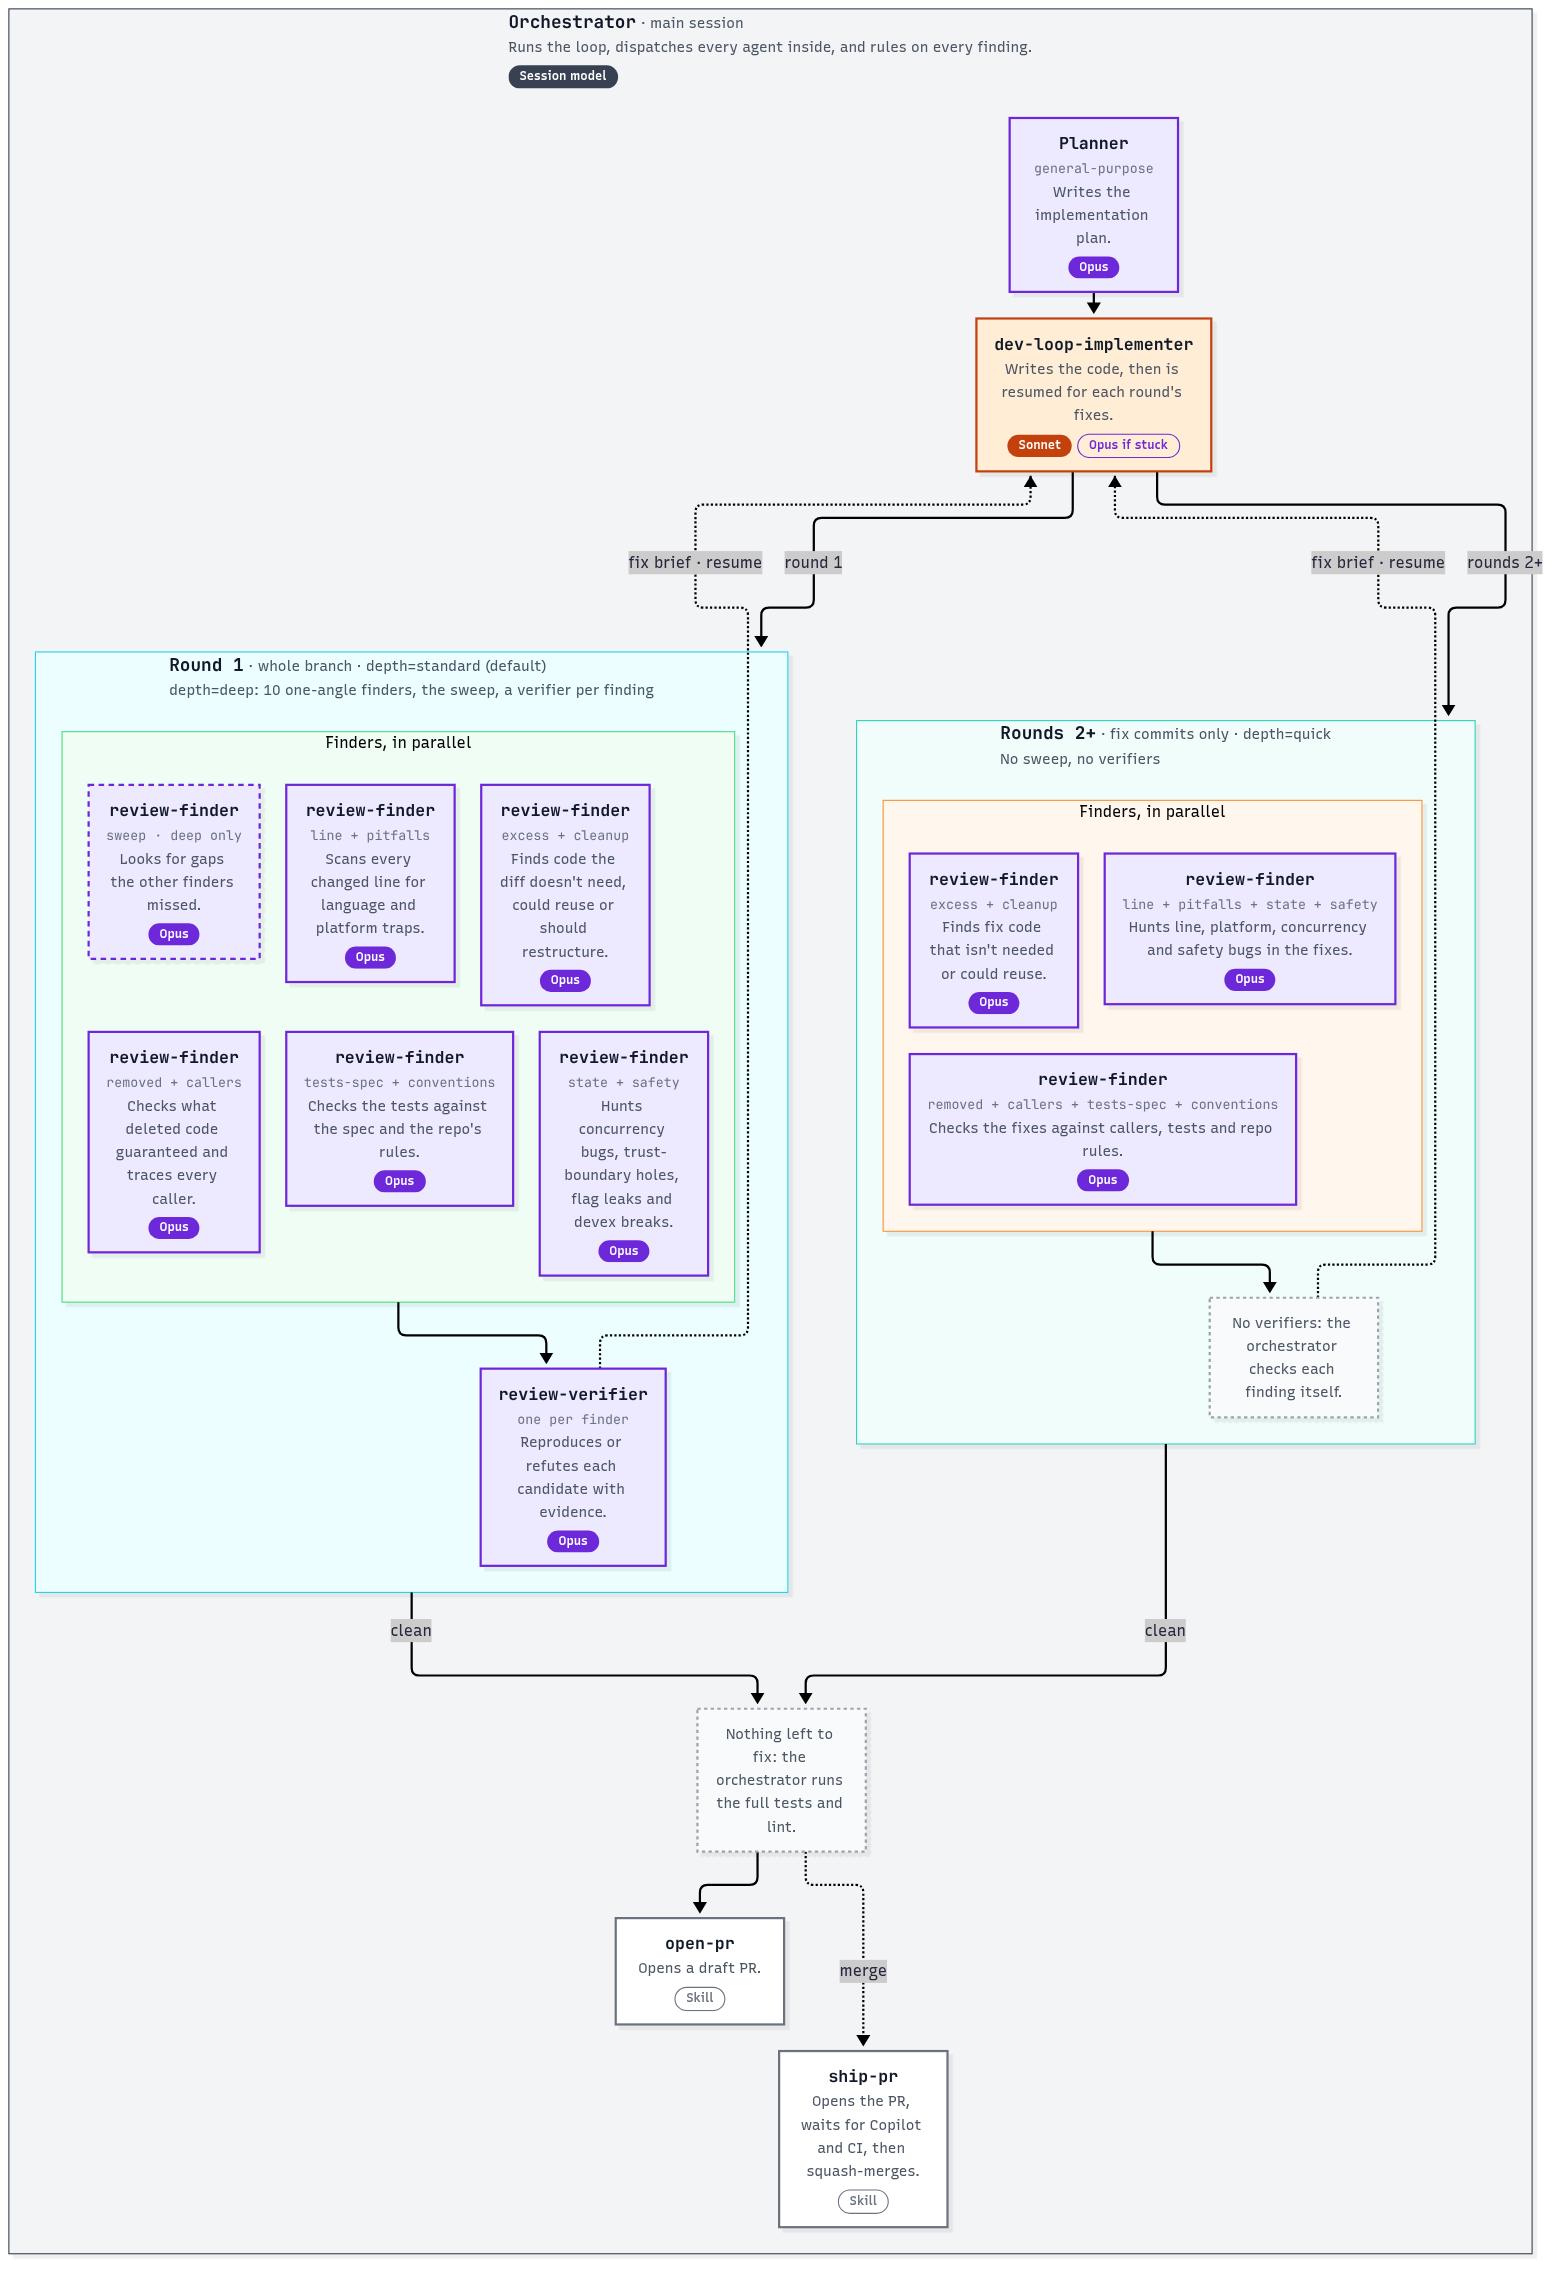
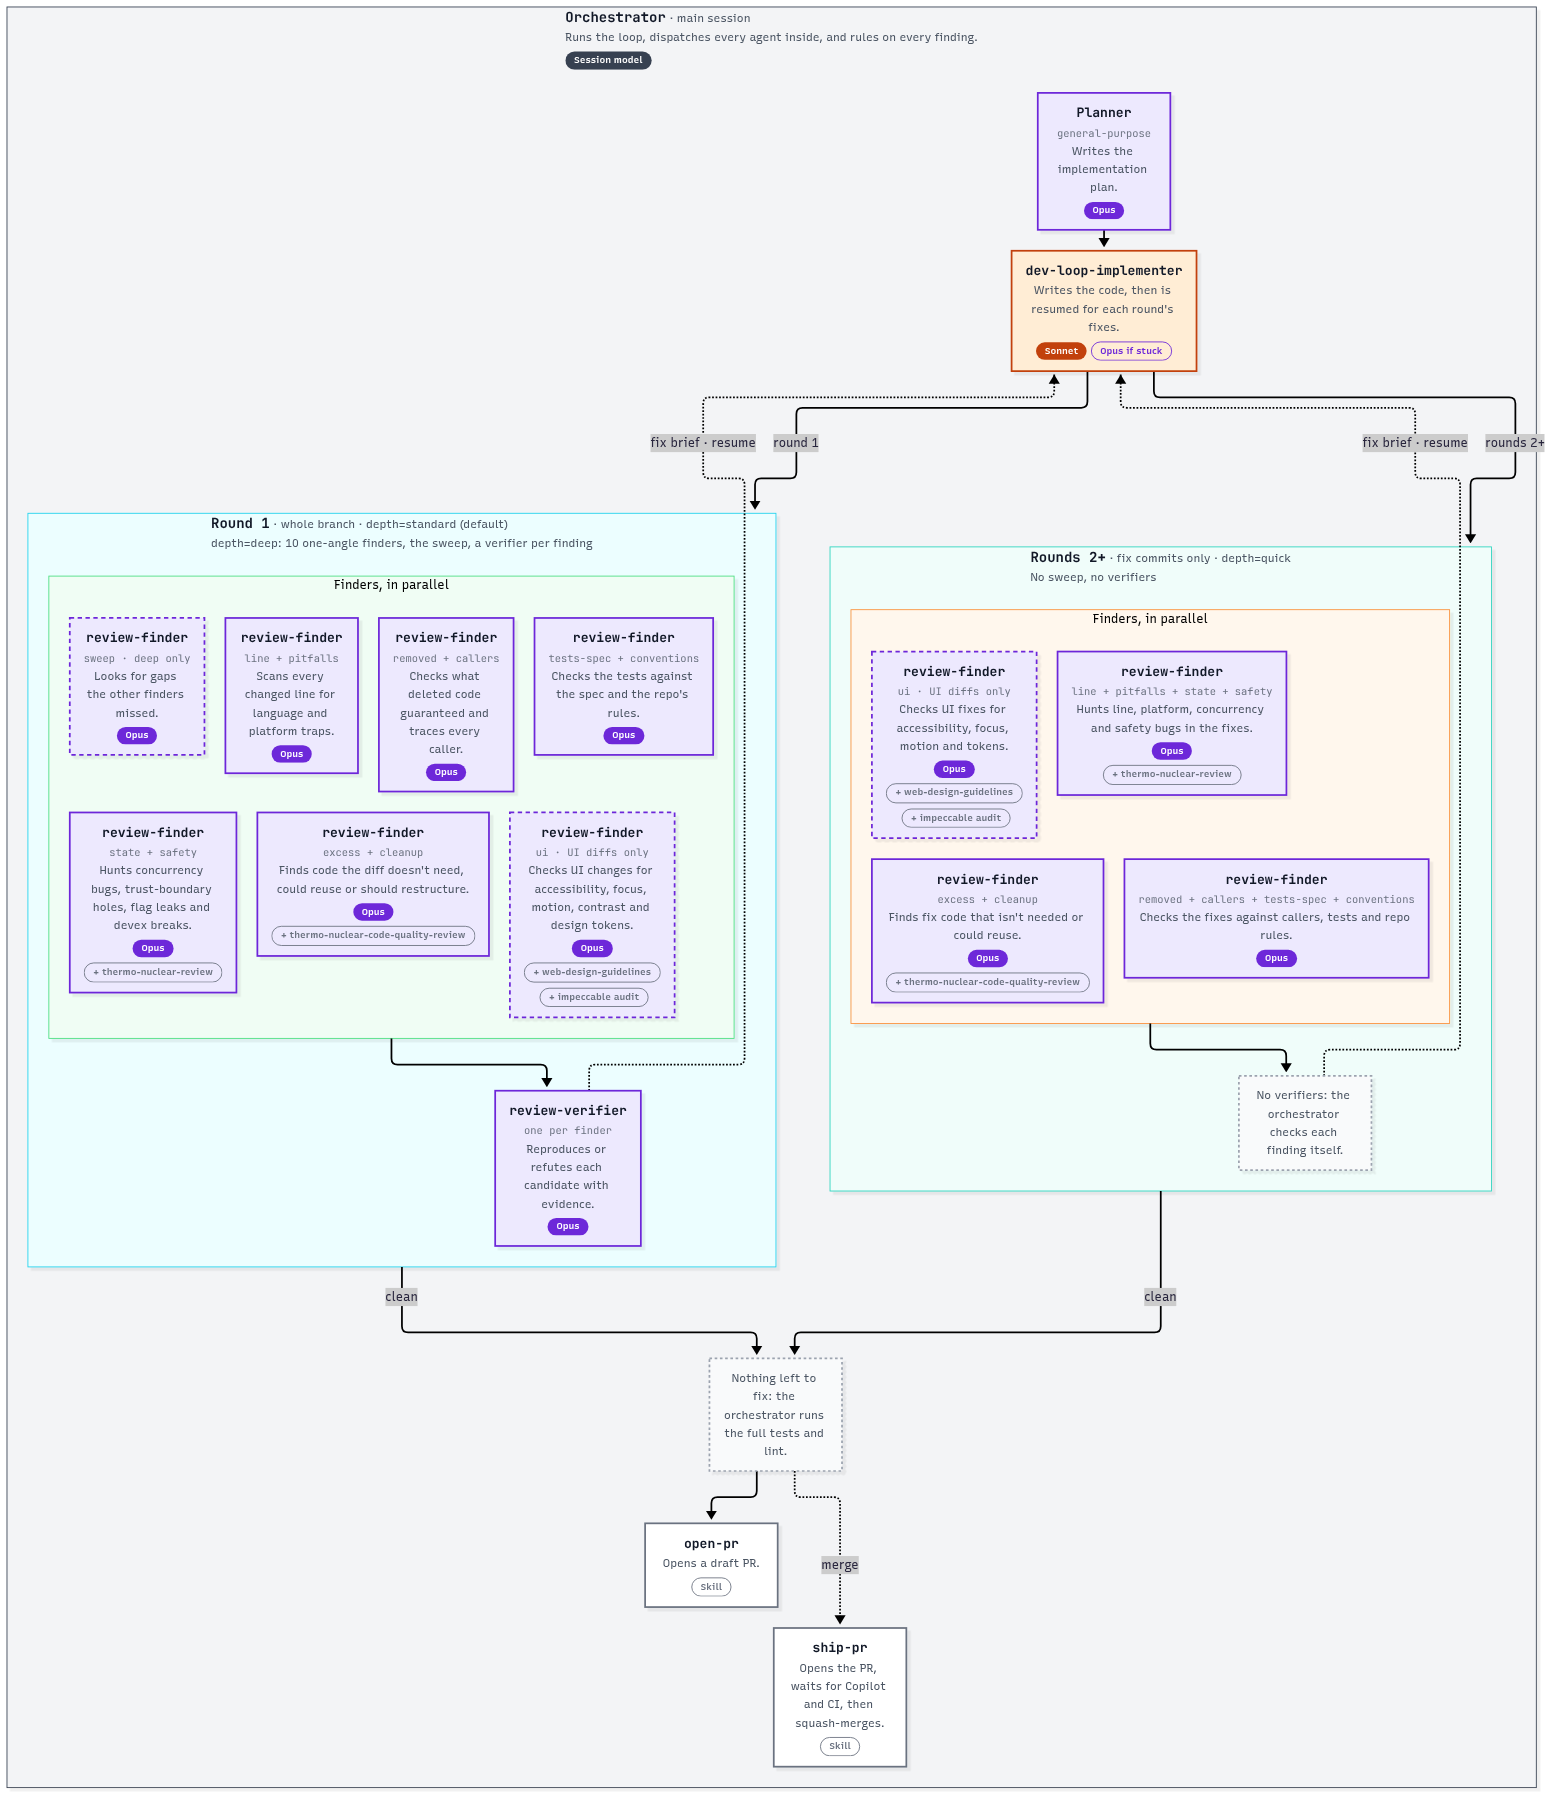
chore: show the ui finder and folded-in review skills in the dev-loop diagram

diff --git a/home/dot_claude/exact_skills/dev-loop/diagram.md b/home/dot_claude/exact_skills/dev-loop/diagram.md
@@ -8,7 +8,7 @@ For people, not the skill: `SKILL.md` never links here, so a dev-loop run never 
 flowchart TD
   classDef opus fill:#ede9fe,stroke:#6d28d9
   classDef sonnet fill:#ffedd5,stroke:#c2410c
-  classDef deep fill:#ede9fe,stroke:#6d28d9,stroke-dasharray:5 4
+  classDef cond fill:#ede9fe,stroke:#6d28d9,stroke-dasharray:5 4
   classDef note fill:#f9fafb,stroke:#9ca3af,stroke-dasharray:3 3
   classDef skill fill:#ffffff,stroke:#6b7280
 
@@ -21,9 +21,10 @@ flowchart TD
       direction TB
       subgraph R2F["Finders, in parallel"]
         direction TB
-        Q1["<span style='font-family:ui-monospace,monospace;font-weight:700;font-size:15px;white-space:nowrap;color:rgb(17,24,39)'>review-finder</span><br/><span style='font-family:ui-monospace,monospace;font-size:12px;white-space:nowrap;color:rgb(107,114,128)'>line + pitfalls + state + safety</span><br/><span style='font-size:13px;color:rgb(75,85,99)'>Hunts line, platform, concurrency and safety bugs in the fixes.</span><br/><span style='display:inline-block;white-space:nowrap;margin-top:6px;padding:2px 10px;border-radius:999px;font-size:11px;font-weight:600;color:white;background:rgb(109,40,217)'>Opus</span>"]:::opus
+        Q1["<span style='font-family:ui-monospace,monospace;font-weight:700;font-size:15px;white-space:nowrap;color:rgb(17,24,39)'>review-finder</span><br/><span style='font-family:ui-monospace,monospace;font-size:12px;white-space:nowrap;color:rgb(107,114,128)'>line + pitfalls + state + safety</span><br/><span style='font-size:13px;color:rgb(75,85,99)'>Hunts line, platform, concurrency and safety bugs in the fixes.</span><br/><span style='display:inline-block;white-space:nowrap;margin-top:6px;padding:2px 10px;border-radius:999px;font-size:11px;font-weight:600;color:white;background:rgb(109,40,217)'>Opus</span><br/><span style='display:inline-block;white-space:nowrap;margin-top:6px;padding:2px 10px;border-radius:999px;font-size:11px;font-weight:600;color:rgb(107,114,128);border:1px solid rgb(107,114,128)'>+ thermo-nuclear-review</span>"]:::opus
         Q2["<span style='font-family:ui-monospace,monospace;font-weight:700;font-size:15px;white-space:nowrap;color:rgb(17,24,39)'>review-finder</span><br/><span style='font-family:ui-monospace,monospace;font-size:12px;white-space:nowrap;color:rgb(107,114,128)'>removed + callers + tests-spec + conventions</span><br/><span style='font-size:13px;color:rgb(75,85,99)'>Checks the fixes against callers, tests and repo rules.</span><br/><span style='display:inline-block;white-space:nowrap;margin-top:6px;padding:2px 10px;border-radius:999px;font-size:11px;font-weight:600;color:white;background:rgb(109,40,217)'>Opus</span>"]:::opus
-        Q3["<span style='font-family:ui-monospace,monospace;font-weight:700;font-size:15px;white-space:nowrap;color:rgb(17,24,39)'>review-finder</span><br/><span style='font-family:ui-monospace,monospace;font-size:12px;white-space:nowrap;color:rgb(107,114,128)'>excess + cleanup</span><br/><span style='font-size:13px;color:rgb(75,85,99)'>Finds fix code that isn't needed or could reuse.</span><br/><span style='display:inline-block;white-space:nowrap;margin-top:6px;padding:2px 10px;border-radius:999px;font-size:11px;font-weight:600;color:white;background:rgb(109,40,217)'>Opus</span>"]:::opus
+        Q3["<span style='font-family:ui-monospace,monospace;font-weight:700;font-size:15px;white-space:nowrap;color:rgb(17,24,39)'>review-finder</span><br/><span style='font-family:ui-monospace,monospace;font-size:12px;white-space:nowrap;color:rgb(107,114,128)'>excess + cleanup</span><br/><span style='font-size:13px;color:rgb(75,85,99)'>Finds fix code that isn't needed or could reuse.</span><br/><span style='display:inline-block;white-space:nowrap;margin-top:6px;padding:2px 10px;border-radius:999px;font-size:11px;font-weight:600;color:white;background:rgb(109,40,217)'>Opus</span><br/><span style='display:inline-block;white-space:nowrap;margin-top:6px;padding:2px 10px;border-radius:999px;font-size:11px;font-weight:600;color:rgb(107,114,128);border:1px solid rgb(107,114,128)'>+ thermo-nuclear-code-quality-review</span>"]:::opus
+        QU["<span style='font-family:ui-monospace,monospace;font-weight:700;font-size:15px;white-space:nowrap;color:rgb(17,24,39)'>review-finder</span><br/><span style='font-family:ui-monospace,monospace;font-size:12px;white-space:nowrap;color:rgb(107,114,128)'>ui · UI diffs only</span><br/><span style='font-size:13px;color:rgb(75,85,99)'>Checks UI fixes for accessibility, focus, motion and tokens.</span><br/><span style='display:inline-block;white-space:nowrap;margin-top:6px;padding:2px 10px;border-radius:999px;font-size:11px;font-weight:600;color:white;background:rgb(109,40,217)'>Opus</span><br/><span style='display:inline-block;white-space:nowrap;margin-top:6px;padding:2px 10px;border-radius:999px;font-size:11px;font-weight:600;color:rgb(107,114,128);border:1px solid rgb(107,114,128)'>+ web-design-guidelines</span> <span style='display:inline-block;white-space:nowrap;margin-top:6px;padding:2px 10px;border-radius:999px;font-size:11px;font-weight:600;color:rgb(107,114,128);border:1px solid rgb(107,114,128)'>+ impeccable audit</span>"]:::cond
       end
       QV["<span style='font-size:13px;color:rgb(75,85,99)'>No verifiers: the orchestrator checks each finding itself.</span>"]:::note
       R2F --> QV
@@ -35,10 +36,11 @@ flowchart TD
         direction TB
         F1["<span style='font-family:ui-monospace,monospace;font-weight:700;font-size:15px;white-space:nowrap;color:rgb(17,24,39)'>review-finder</span><br/><span style='font-family:ui-monospace,monospace;font-size:12px;white-space:nowrap;color:rgb(107,114,128)'>line + pitfalls</span><br/><span style='font-size:13px;color:rgb(75,85,99)'>Scans every changed line for language and platform traps.</span><br/><span style='display:inline-block;white-space:nowrap;margin-top:6px;padding:2px 10px;border-radius:999px;font-size:11px;font-weight:600;color:white;background:rgb(109,40,217)'>Opus</span>"]:::opus
         F2["<span style='font-family:ui-monospace,monospace;font-weight:700;font-size:15px;white-space:nowrap;color:rgb(17,24,39)'>review-finder</span><br/><span style='font-family:ui-monospace,monospace;font-size:12px;white-space:nowrap;color:rgb(107,114,128)'>removed + callers</span><br/><span style='font-size:13px;color:rgb(75,85,99)'>Checks what deleted code guaranteed and traces every caller.</span><br/><span style='display:inline-block;white-space:nowrap;margin-top:6px;padding:2px 10px;border-radius:999px;font-size:11px;font-weight:600;color:white;background:rgb(109,40,217)'>Opus</span>"]:::opus
-        F3["<span style='font-family:ui-monospace,monospace;font-weight:700;font-size:15px;white-space:nowrap;color:rgb(17,24,39)'>review-finder</span><br/><span style='font-family:ui-monospace,monospace;font-size:12px;white-space:nowrap;color:rgb(107,114,128)'>state + safety</span><br/><span style='font-size:13px;color:rgb(75,85,99)'>Hunts concurrency bugs, trust-boundary holes, flag leaks and devex breaks.</span><br/><span style='display:inline-block;white-space:nowrap;margin-top:6px;padding:2px 10px;border-radius:999px;font-size:11px;font-weight:600;color:white;background:rgb(109,40,217)'>Opus</span>"]:::opus
+        F3["<span style='font-family:ui-monospace,monospace;font-weight:700;font-size:15px;white-space:nowrap;color:rgb(17,24,39)'>review-finder</span><br/><span style='font-family:ui-monospace,monospace;font-size:12px;white-space:nowrap;color:rgb(107,114,128)'>state + safety</span><br/><span style='font-size:13px;color:rgb(75,85,99)'>Hunts concurrency bugs, trust-boundary holes, flag leaks and devex breaks.</span><br/><span style='display:inline-block;white-space:nowrap;margin-top:6px;padding:2px 10px;border-radius:999px;font-size:11px;font-weight:600;color:white;background:rgb(109,40,217)'>Opus</span><br/><span style='display:inline-block;white-space:nowrap;margin-top:6px;padding:2px 10px;border-radius:999px;font-size:11px;font-weight:600;color:rgb(107,114,128);border:1px solid rgb(107,114,128)'>+ thermo-nuclear-review</span>"]:::opus
         F4["<span style='font-family:ui-monospace,monospace;font-weight:700;font-size:15px;white-space:nowrap;color:rgb(17,24,39)'>review-finder</span><br/><span style='font-family:ui-monospace,monospace;font-size:12px;white-space:nowrap;color:rgb(107,114,128)'>tests-spec + conventions</span><br/><span style='font-size:13px;color:rgb(75,85,99)'>Checks the tests against the spec and the repo's rules.</span><br/><span style='display:inline-block;white-space:nowrap;margin-top:6px;padding:2px 10px;border-radius:999px;font-size:11px;font-weight:600;color:white;background:rgb(109,40,217)'>Opus</span>"]:::opus
-        F5["<span style='font-family:ui-monospace,monospace;font-weight:700;font-size:15px;white-space:nowrap;color:rgb(17,24,39)'>review-finder</span><br/><span style='font-family:ui-monospace,monospace;font-size:12px;white-space:nowrap;color:rgb(107,114,128)'>excess + cleanup</span><br/><span style='font-size:13px;color:rgb(75,85,99)'>Finds code the diff doesn't need, could reuse or should restructure.</span><br/><span style='display:inline-block;white-space:nowrap;margin-top:6px;padding:2px 10px;border-radius:999px;font-size:11px;font-weight:600;color:white;background:rgb(109,40,217)'>Opus</span>"]:::opus
-        SW["<span style='font-family:ui-monospace,monospace;font-weight:700;font-size:15px;white-space:nowrap;color:rgb(17,24,39)'>review-finder</span><br/><span style='font-family:ui-monospace,monospace;font-size:12px;white-space:nowrap;color:rgb(107,114,128)'>sweep · deep only</span><br/><span style='font-size:13px;color:rgb(75,85,99)'>Looks for gaps the other finders missed.</span><br/><span style='display:inline-block;white-space:nowrap;margin-top:6px;padding:2px 10px;border-radius:999px;font-size:11px;font-weight:600;color:white;background:rgb(109,40,217)'>Opus</span>"]:::deep
+        F5["<span style='font-family:ui-monospace,monospace;font-weight:700;font-size:15px;white-space:nowrap;color:rgb(17,24,39)'>review-finder</span><br/><span style='font-family:ui-monospace,monospace;font-size:12px;white-space:nowrap;color:rgb(107,114,128)'>excess + cleanup</span><br/><span style='font-size:13px;color:rgb(75,85,99)'>Finds code the diff doesn't need, could reuse or should restructure.</span><br/><span style='display:inline-block;white-space:nowrap;margin-top:6px;padding:2px 10px;border-radius:999px;font-size:11px;font-weight:600;color:white;background:rgb(109,40,217)'>Opus</span><br/><span style='display:inline-block;white-space:nowrap;margin-top:6px;padding:2px 10px;border-radius:999px;font-size:11px;font-weight:600;color:rgb(107,114,128);border:1px solid rgb(107,114,128)'>+ thermo-nuclear-code-quality-review</span>"]:::opus
+        FU["<span style='font-family:ui-monospace,monospace;font-weight:700;font-size:15px;white-space:nowrap;color:rgb(17,24,39)'>review-finder</span><br/><span style='font-family:ui-monospace,monospace;font-size:12px;white-space:nowrap;color:rgb(107,114,128)'>ui · UI diffs only</span><br/><span style='font-size:13px;color:rgb(75,85,99)'>Checks UI changes for accessibility, focus, motion, contrast and design tokens.</span><br/><span style='display:inline-block;white-space:nowrap;margin-top:6px;padding:2px 10px;border-radius:999px;font-size:11px;font-weight:600;color:white;background:rgb(109,40,217)'>Opus</span><br/><span style='display:inline-block;white-space:nowrap;margin-top:6px;padding:2px 10px;border-radius:999px;font-size:11px;font-weight:600;color:rgb(107,114,128);border:1px solid rgb(107,114,128)'>+ web-design-guidelines</span> <span style='display:inline-block;white-space:nowrap;margin-top:6px;padding:2px 10px;border-radius:999px;font-size:11px;font-weight:600;color:rgb(107,114,128);border:1px solid rgb(107,114,128)'>+ impeccable audit</span>"]:::cond
+        SW["<span style='font-family:ui-monospace,monospace;font-weight:700;font-size:15px;white-space:nowrap;color:rgb(17,24,39)'>review-finder</span><br/><span style='font-family:ui-monospace,monospace;font-size:12px;white-space:nowrap;color:rgb(107,114,128)'>sweep · deep only</span><br/><span style='font-size:13px;color:rgb(75,85,99)'>Looks for gaps the other finders missed.</span><br/><span style='display:inline-block;white-space:nowrap;margin-top:6px;padding:2px 10px;border-radius:999px;font-size:11px;font-weight:600;color:white;background:rgb(109,40,217)'>Opus</span>"]:::cond
       end
       V["<span style='font-family:ui-monospace,monospace;font-weight:700;font-size:15px;white-space:nowrap;color:rgb(17,24,39)'>review-verifier</span><br/><span style='font-family:ui-monospace,monospace;font-size:12px;white-space:nowrap;color:rgb(107,114,128)'>one per finder</span><br/><span style='font-size:13px;color:rgb(75,85,99)'>Reproduces or refutes each candidate with evidence.</span><br/><span style='display:inline-block;white-space:nowrap;margin-top:6px;padding:2px 10px;border-radius:999px;font-size:11px;font-weight:600;color:white;background:rgb(109,40,217)'>Opus</span>"]:::opus
       R1F --> V
